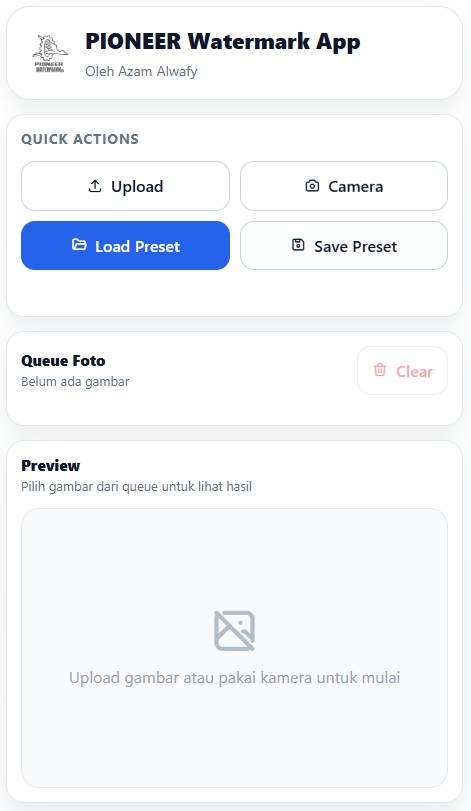
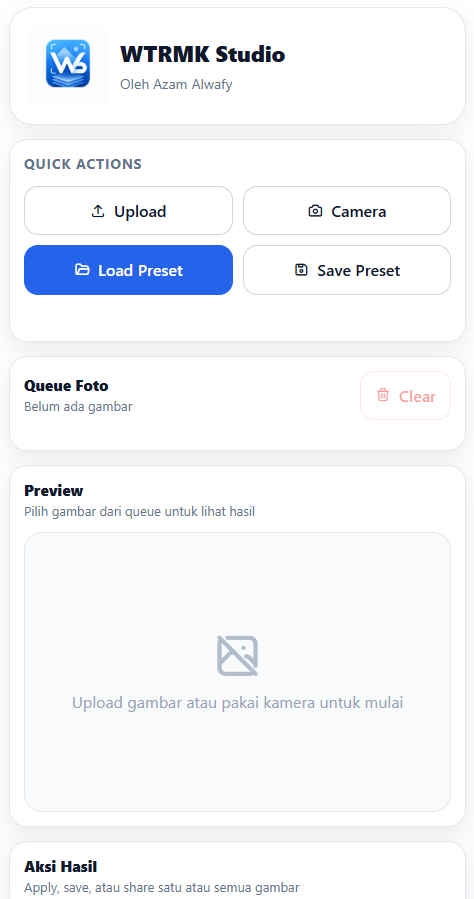
Add files via upload

diff --git a/index.html b/index.html
@@ -3,7 +3,7 @@
 <head>
 <meta charset="UTF-8" />
 <meta name="viewport" content="width=device-width, initial-scale=1.0, maximum-scale=1.0" />
-<title>PIONEER Watermark App</title>
+<title>WTRMK Studio</title>
 <link rel="stylesheet" href="https://cdn.jsdelivr.net/npm/@tabler/icons-webfont@latest/dist/tabler-icons.min.css">
 <link rel="manifest" href="manifest.json" />
 <style>
@@ -61,8 +61,8 @@ img{display:block;max-width:100%}
   gap:12px;
 }
 .header-icon{
-  width:48px;
-  height:48px;
+  width:80px;
+  height:80px;
   border-radius:16px;
   display:flex;
   align-items:center;
@@ -769,8 +769,8 @@ details[open] .summary-arrow{
 }
 
 .splash-logo-wrap {
-  width: 170px;
-  height: 170px;
+  width: 230px;
+  height: 230px;
   margin: 0 auto 20px;
   display: flex;
   align-items: center;
@@ -871,8 +871,8 @@ details[open] .summary-arrow{
 
 @media (max-width: 480px) {
   .splash-logo-wrap {
-    width: 145px;
-    height: 145px;
+    width: 200px;
+    height: 200px;
   }
 
   .splash-title {
@@ -910,10 +910,10 @@ details[open] .summary-arrow{
 <div id="splashScreen" class="splash-screen">
   <div class="splash-content">
     <div class="splash-logo-wrap">
-      <img src="logo.png" alt="Pioneer Logo" class="splash-logo">
+      <img src="logo.png" alt="Logo" class="splash-logo">
     </div>
 
-    <h1 class="splash-title">PIONEER Watermark App</h1>
+    <h1 class="splash-title">Selamat Datang</h1>
     <p class="splash-subtitle">Loading...</p>
 
     <div class="splash-loader">
@@ -927,10 +927,10 @@ details[open] .summary-arrow{
     <div class="header-box">
       <div class="header-top">
 			<div class="header-icon">
-			  <img src="logo.png" alt="Pioneer Logo">
+			  <img src="logo2.png" alt="Logo">
 			</div>
         <div>
-          <h1>PIONEER Watermark App</h1>
+          <h1>WTRMK Studio</h1>
           <p>Oleh Azam Alwafy</p>
         </div>
       </div>
